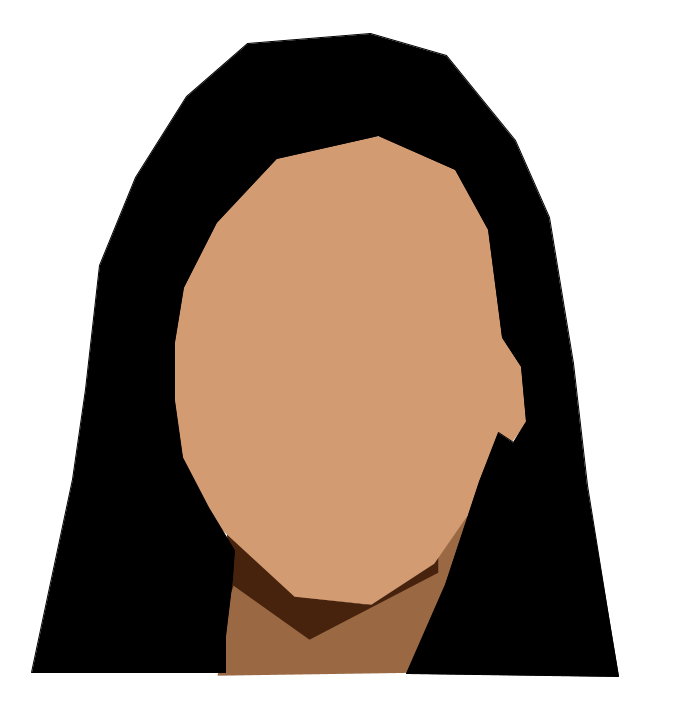
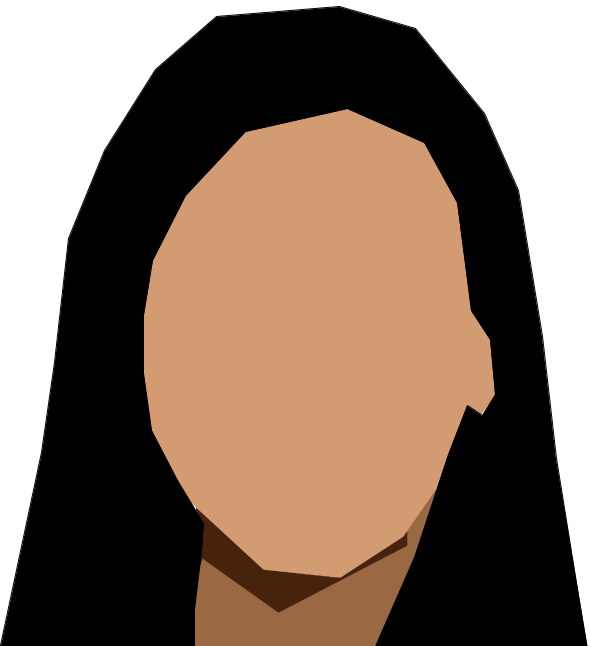
update speaker img

diff --git a/program/program.css b/program/program.css
@@ -270,7 +270,7 @@ li
   transition: transform calc(var(--d) * 2) var(--e);
 }
 .speakerCard:nth-child(1):before {
-  background-image: url("../media/person2.jpeg");
+  background-image: url("../media/speakers/rupaul.png");
 }
 .speakerCard:nth-child(2):before {
   background-image: url("../media/speakers/dwayne.png");
@@ -279,43 +279,43 @@ li
   background-image: url("../media/speakers/oprah.png");
 }
 .speakerCard:nth-child(4):before {
-  background-image: url("../media/person2.jpeg");
+  background-image: url("../media/speakers/robyn.png");
 }
 .speakerCard:nth-child(5):before {
-  background-image: url("../media/person2.jpeg");
+  background-image: url("../media/speakers/simon.png");
 }
 .speakerCard:nth-child(6):before {
-  background-image: url("../media/person2.jpeg");
+  background-image: url("../media/speakers/robyn.png");
 }
 .speakerCard:nth-child(7):before {
-  background-image: url("../media/person2.jpeg");
+  background-image: url("../media/speakers/zhang.png");
 }
 .speakerCard:nth-child(8):before {
-  background-image: url("../media/person2.jpeg");
+  background-image: url("../media/speakers/janice.png");
 }
 .speakerCard:nth-child(9):before {
-  background-image: url("../media/person2.jpeg");
+  background-image: url("../media/speakers/barbara.png");
 }
 .speakerCard:nth-child(10):before {
-  background-image: url("../media/person2.jpeg");
+  background-image: url("../media/speakers/alaa.png");
 }
 .speakerCard:nth-child(11):before {
-  background-image: url("../media/person2.jpeg");
+  background-image: url("../media/speakers/dalila.png");
 }
 .speakerCard:nth-child(12):before {
-  background-image: url("../media/person2.jpeg");
+  background-image: url("../media/speakers/brian.png");
 }
 .speakerCard:nth-child(13):before {
-  background-image: url("../media/person2.jpeg");
+  background-image: url("../media/speakers/rupi.png");
 }
 .speakerCard:nth-child(14):before {
   background-image: url("../media/speakers/ai-jen poo.png");
 }
 .speakerCard:nth-child(15):before {
-  background-image: url("../media/person2.jpeg");
+  background-image: url("../media/speakers/robyn.png");
 }
 .speakerCard:nth-child(16):before {
-  background-image: url("../media/person2.jpeg");
+  background-image: url("../media/speakers/robyn.png");
 }
 .content {
   position: relative;
